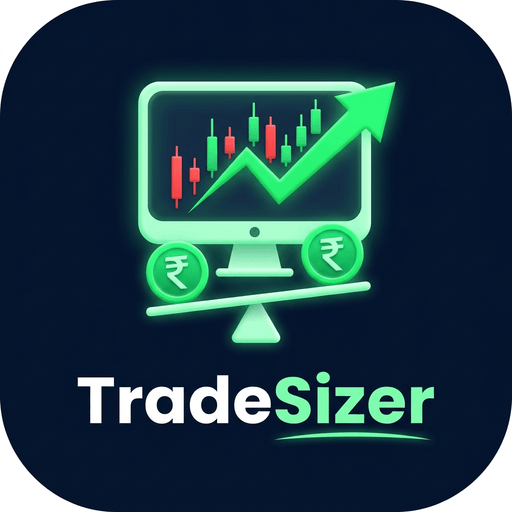
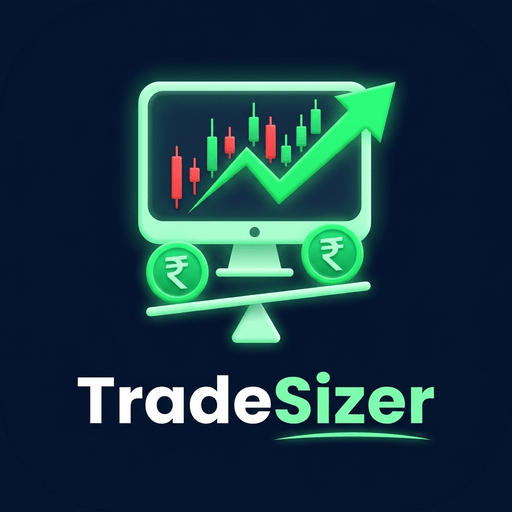
feat(pwa): update PWA assets and manifest config
Add high-resolution maskable icons to PWA configuration, update manifest theme colors, and optimize asset inclusion for better PWA installation support.

diff --git a/scripts/process-app-icons.js b/scripts/process-app-icons.js
@@ -2,7 +2,7 @@ import sharp from 'sharp';
 import path from 'path';
 import fs from 'fs';
 
-const inputPath = path.resolve('src/assets/images/tradesizer_app_icon_1791101867788.jpg');
+const inputPath = path.resolve('src/assets/images/tradesizer_clean_bleed.jpg');
 const publicDir = path.resolve('public');
 
 if (!fs.existsSync(inputPath)) {
@@ -15,16 +15,19 @@ if (!fs.existsSync(publicDir)) {
 }
 
 async function processIcons() {
-  console.log('Processing app icons from:', inputPath);
+  console.log('Generating edge-to-edge dark blue icons from:', inputPath);
 
-  // 1. Standard 512x512
+  // Background color rgb(5, 21, 46) -> #05152e
+  const bgColor = { r: 5, g: 21, b: 46, alpha: 1 };
+
+  // 1. Standard full-bleed 512x512
   await sharp(inputPath)
     .resize(512, 512, { fit: 'cover' })
     .png({ quality: 100 })
     .toFile(path.join(publicDir, 'pwa-512x512.png'));
   console.log('✓ Created pwa-512x512.png');
 
-  // 2. Standard 192x192
+  // 2. Standard full-bleed 192x192
   await sharp(inputPath)
     .resize(192, 192, { fit: 'cover' })
     .png({ quality: 100 })
@@ -38,16 +41,16 @@ async function processIcons() {
     .toFile(path.join(publicDir, 'apple-touch-icon.png'));
   console.log('✓ Created apple-touch-icon.png');
 
-  // 4. Favicon 48x48 / 64x64
+  // 4. Favicon 64x64
   await sharp(inputPath)
     .resize(64, 64, { fit: 'cover' })
     .png({ quality: 100 })
     .toFile(path.join(publicDir, 'favicon.ico'));
   console.log('✓ Created favicon.ico');
 
-  // 5. Maskable 512x512: Padded with deep dark blue background (#070b14) so Android circular/squircle cropping doesn't cut the TradeSizer text or elements
-  const innerResized = await sharp(inputPath)
-    .resize(420, 420, { fit: 'cover' })
+  // 5. Maskable 512x512 with safe-zone on solid dark blue canvas
+  const inner512 = await sharp(inputPath)
+    .resize(410, 410, { fit: 'cover' })
     .toBuffer();
 
   await sharp({
@@ -55,21 +58,40 @@ async function processIcons() {
       width: 512,
       height: 512,
       channels: 4,
-      background: { r: 7, g: 11, b: 20, alpha: 1 },
+      background: bgColor,
     },
   })
-    .composite([{ input: innerResized, gravity: 'center' }])
+    .composite([{ input: inner512, gravity: 'center' }])
     .png({ quality: 100 })
     .toFile(path.join(publicDir, 'pwa-maskable-512x512.png'));
-  console.log('✓ Created pwa-maskable-512x512.png (with safe zone padding for centered text)');
+  console.log('✓ Created pwa-maskable-512x512.png');
 
-  // Also create icon.png for general links
+  // 6. Maskable 192x192 with safe-zone on solid dark blue canvas
+  const inner192 = await sharp(inputPath)
+    .resize(154, 154, { fit: 'cover' })
+    .toBuffer();
+
+  await sharp({
+    create: {
+      width: 192,
+      height: 192,
+      channels: 4,
+      background: bgColor,
+    },
+  })
+    .composite([{ input: inner192, gravity: 'center' }])
+    .png({ quality: 100 })
+    .toFile(path.join(publicDir, 'pwa-maskable-192x192.png'));
+  console.log('✓ Created pwa-maskable-192x192.png');
+
+  // 7. General icon.png
   await sharp(inputPath)
     .resize(512, 512, { fit: 'cover' })
     .png({ quality: 100 })
     .toFile(path.join(publicDir, 'icon.png'));
+  console.log('✓ Created icon.png');
 
-  console.log('All icons generated successfully!');
+  console.log('All seamless dark-blue icons generated successfully with ZERO white corners!');
 }
 
 processIcons().catch((err) => {

diff --git a/vite.config.ts b/vite.config.ts
@@ -11,28 +11,37 @@ export default defineConfig(() => {
       tailwindcss(),
       VitePWA({
         registerType: 'autoUpdate',
-        includeAssets: ['favicon.ico', 'apple-touch-icon.png', 'icon.svg', 'icon.png'],
+        includeAssets: [
+          'favicon.ico',
+          'apple-touch-icon.png',
+          'icon.svg',
+          'icon.png',
+          'pwa-192x192.png',
+          'pwa-512x512.png',
+          'pwa-maskable-192x192.png',
+          'pwa-maskable-512x512.png',
+        ],
         manifest: {
           id: '/',
           name: 'Trade Sizer - Loss Recovery & Regular Profit Wallet',
           short_name: 'TradeSizer',
           description: 'Smart trade sizing advisor that tells you exactly how much your next trade should be to recover losses safely, while adding a guaranteed regular profit percentage to your wallet on every trade.',
-          theme_color: '#070b14',
-          background_color: '#070b14',
+          theme_color: '#05152e',
+          background_color: '#05152e',
           display: 'standalone',
           start_url: '/',
           scope: '/',
           orientation: 'portrait-primary',
           icons: [
             {
-              src: '/pwa-192x192.png',
+              src: '/pwa-maskable-192x192.png',
               sizes: '192x192',
               type: 'image/png',
-              purpose: 'any',
+              purpose: 'maskable',
             },
             {
-              src: '/pwa-512x512.png',
-              sizes: '512x512',
+              src: '/pwa-192x192.png',
+              sizes: '192x192',
               type: 'image/png',
               purpose: 'any',
             },
@@ -41,6 +50,12 @@ export default defineConfig(() => {
               sizes: '512x512',
               type: 'image/png',
               purpose: 'maskable',
+            },
+            {
+              src: '/pwa-512x512.png',
+              sizes: '512x512',
+              type: 'image/png',
+              purpose: 'any',
             },
           ],
         },
